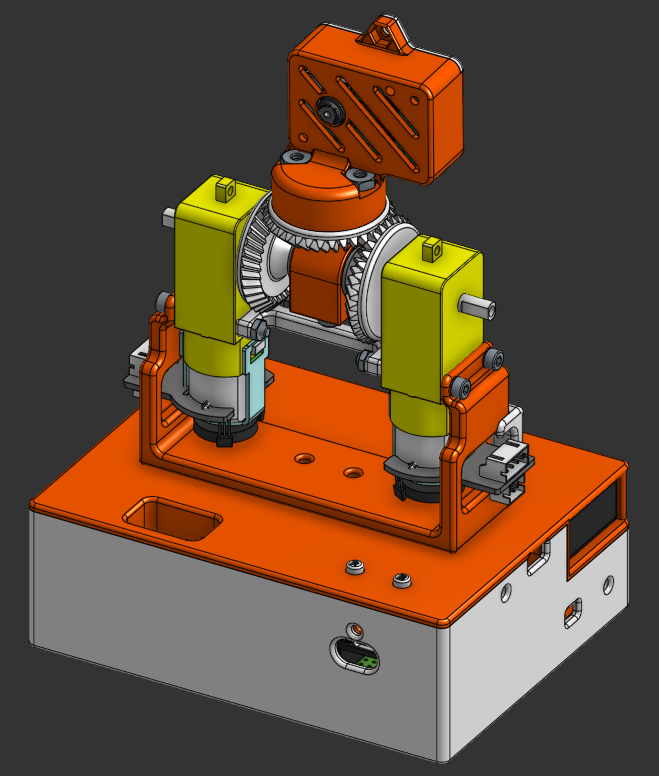
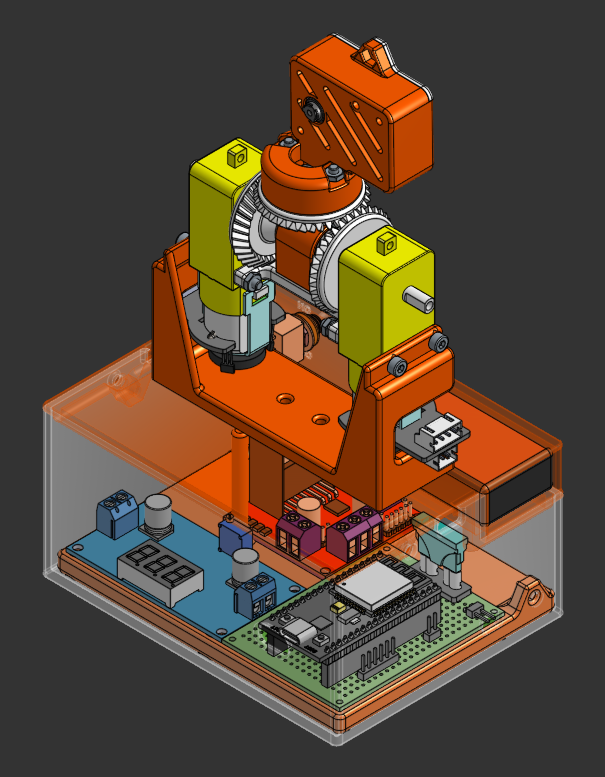
Started tuning motor gains, major CAD revision (see OnShape V5)

diff --git a/motor_controller/Motor.cpp b/motor_controller/Motor.cpp
@@ -51,7 +51,6 @@ void Motor::stop() {
 }
 
 void Motor::print_count() {
-  // long newPosition = encoder.getCount() / 2; // FIXME
   Serial.println(encoder.getCount() / 2);
 }
 
@@ -65,14 +64,22 @@ bool Motor::go_to_angle(float target_angle) {
 
   // Constant speed control until tolerance is reach (tol ~= +/- 1 deg)
   int error = target_encoder_count - (encoder.getCount() / 2);
+  float speed = error * (1/240.0);
   // Serial.println(error);
 
   if (abs(error) > 3) {
     completed_move = false;
     if (error > 0) {
-      forward(0.5);
+      // forward(0.5);
+      // forward(abs(speed));
+      Serial.print("forward: ");
+      Serial.println(speed);
+      
     } else {
-      backward(0.5);
+      // backward(0.5);
+      // backward(abs(speed));
+      Serial.print("backward");
+      Serial.println(speed);
     }
   } else {
     stop();
